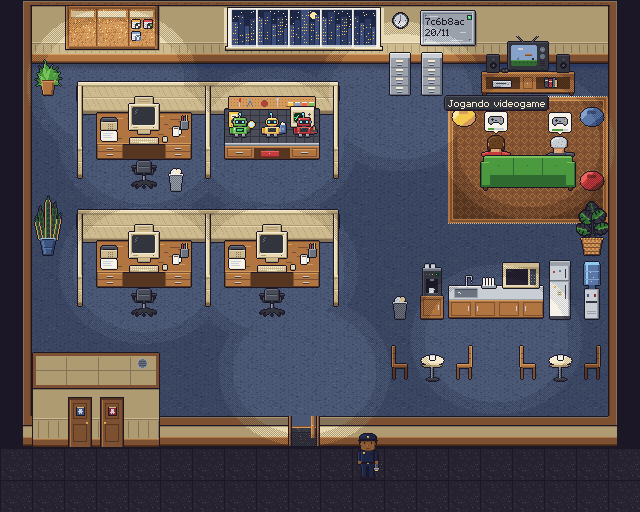
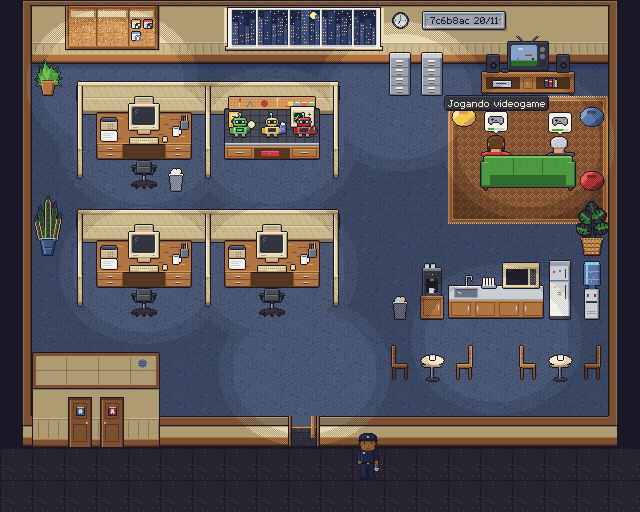
docs: a placa da versão numa linha só, da altura do relógio
A placa_versao_linha (96 × 64, nas colunas 13 a 15) substitui a placa de duas
linhas: comprida, alinhada com o relógio e sem a luz, que passa para a barra de
cima da tela. A placa_versao antiga fica na folha até a tela trocar. O "." da
fonte vai para a coluna 0 da célula, como a tela já o recortava. A prévia
mostra a placa nova em todas as cenas.

Claude-Session: https://claude.ai/code/session_01BURa66aaHAm5tC4w4uDtJx

Changed region(s): [[0.6562, 0.0, 0.8125, 0.0938]]

diff --git a/docs/design/escritorio-arte/escritorio-arte.html b/docs/design/escritorio-arte/escritorio-arte.html
@@ -1250,7 +1250,7 @@ const GLIFOS_BASE = {
   7: '#####/....#/...#./..#../..#../..#../..#..',
   8: '.###./#...#/#...#/.###./#...#/#...#/.###.',
   9: '.###./#...#/#...#/.####/....#/...#./.##..',
-  '.': './././././.#',
+  '.': './././././#',
   ',': '../../../../../.#/.#/#.',
   ';': '../../.#/../../.#/.#/#.',
   ':': './././#/./././#',
@@ -1876,6 +1876,24 @@ function selo(nome) {
   return s;
 }
 
+// ---- a placa da versão numa linha só (21/11): comprida, da altura do relógio e alinhada com
+// ele, sem a luz (o estado vai na barra de cima da tela). Substitui a placa_versao.
+const PLACA_LINHA = {
+  posicao: [13, 1],                                   // o tile da esquerda, na linha de baixo da parede (as colunas 13 a 15)
+  texto: { x: 13, y: 14, largura: 70, altura: 12, cor: 'escuro', formato: '<commit> <dd/mm>' },
+};
+function placaLinha() {
+  const s = new Spr(96, 64), p = new Spr(96, 64);
+  const x0 = 7, y0 = 12, x1 = 88, y1 = 28;
+  s.hl(x0 + 1, x1 + 1, y1 + 2, 'begeSomb').vl(x1 + 2, y0 + 2, y1 + 2, 'begeSomb');                  // a sombra na parede
+  p.r(x0, y0, x1 - x0 + 1, y1 - y0 + 1, 'cinzaCl');
+  p.hl(x0, x1, y0, 'branco').vl(x0, y0, y1, 'branco').hl(x0, x1, y1, 'cinza').vl(x1, y0, y1, 'cinza');
+  p.hl(x0 + 2, x1 - 2, y0 + 2, 'cinza').hl(x0 + 2, x1 - 2, y1 - 2, 'branco').vl(x0 + 2, y0 + 2, y1 - 2, 'cinza').vl(x1 - 2, y0 + 2, y1 - 2, 'branco');
+  for (const x of [x0 + 4, x1 - 5]) p.r(x, 19, 2, 2, 'cinza').p(x, 19, 'cinzaEsc').p(x + 1, 20, 'branco');   // os dois parafusos
+  p.contorno();
+  return s.cola(p);
+}
+
 // =====================================================================
 // PERSONAGENS: um corpo-base parametrizável, em quadros de 64 × 64
 // Âncora (32, 64): o contorno do pé encosta na última linha.
@@ -2356,7 +2374,11 @@ const FOLHAS = [
   { nome: 'placa_versao', grupo: 'parede do fundo', q: [64, 64], col: PLACA_ESTADOS.length, lin: 1, pegada: [2, 1], ancora: [32, 64], camada: 'parede',
     quadros: PLACA_ESTADOS, desenha: c => placaVersao(PLACA_ESTADOS[c]),
     nota: 'na parede do fundo, ao lado do relógio: posicao é o tile da esquerda na linha 1 da parede (as colunas 13 e 14), e o quadro cobre as linhas 0 e 1. A luz é emissiva. A tela escreve o commit e a data em texto, em duas linhas, na fonte da sala; atualizando e atualizando2 se alternam.',
-    extra: () => ({ posicao: PLACA.posicao, texto: PLACA.texto }) },
+    extra: () => ({ posicao: PLACA.posicao, texto: PLACA.texto, substituidaPor: 'placa_versao_linha' }) },
+  { nome: 'placa_versao_linha', grupo: 'parede do fundo', q: [96, 64], col: 1, lin: 1, pegada: [3, 1], ancora: [48, 64], camada: 'parede',
+    quadros: ['placa'], desenha: () => placaLinha(),
+    nota: 'a placa da versão numa linha só (21/11), no lugar da placa_versao: da altura do relógio e alinhada com ele, nas colunas 13 a 15; sem a luz, porque o estado vai na barra de cima da tela. A tela escreve o commit curto e o dia, separados por um espaço (ex.: 89f4167 21/11), centrados no retângulo texto.',
+    extra: () => ({ posicao: PLACA_LINHA.posicao, texto: PLACA_LINHA.texto }) },
   { nome: 'mesa_dev', grupo: 'móveis', q: [96, 64], col: 7, lin: 1, pegada: [3, 1], ancora: [48, 64], camada: 'normal',
     quadros: ['apagada', 'tela 1', 'tela 2', 'tela 3', 'lendo', 'testes verdes', 'testes vermelhos'],
     nota: 'os quadros 4 a 6 são o último passo do dev na oficina', desenha: c => mesaDev(c) },
@@ -2758,8 +2780,9 @@ function objetos(cena, t) {
   if (typeof e.ficha === 'number') fichaEm(1, (2 + e.ficha) * T + (e.ficha === 0 ? 5 : 2) + 1, 19, e.ficha === 2 && e.selo);
   if (cena.fichasPr) { fichaEm(0, 4 * T + 15, 19, 'ci_verde'); fichaEm(3, 4 * T + 3, 31, 'mesclado'); }
   // a placa da versão, na parede ao lado do relógio, com o commit e a data
-  const [estado, commit, data] = cena.placa ? cena.placa(t) : ['rodando', '7c6b8ac', '20/11'];
-  o.push({ spr: placaComTexto(estado, [commit, data]), x: PLACA.posicao[0] * T, y: (PLACA.posicao[1] + 1) * T - 64, base: -1, ordem: 0 });
+  let [, commit, data] = cena.placa ? cena.placa(t) : ['rodando', '7c6b8ac', '20/11'];
+  if (PLACA_TEXTO) [commit, data] = PLACA_TEXTO;
+  o.push({ spr: placaLinhaComTexto(commit + ' ' + data), x: PLACA_LINHA.posicao[0] * T, y: (PLACA_LINHA.posicao[1] + 1) * T - 64, base: -1, ordem: 0 });
   // os cubículos
   for (const k of DIV) { const [c, l] = k.split(',').map(Number); poe(quadro('divisoria', mascara(c, l) % 4, mascara(c, l) >> 2), c, l); }
   const digitando = atores.camps && atores.camps.anim === 'digitando';
@@ -2809,6 +2832,17 @@ function placaComTexto(estado, linhas) {
   if (!PLACAS.has(k)) {
     const s = quadro('placa_versao', PLACA_ESTADOS.indexOf(estado)).clone(), tx = PLACA.texto;
     linhas.forEach((l, i) => escreve(s, l, tx.x, tx.y + i * tx.entrelinha, tx.cor));
+    PLACAS.set(k, s);
+  }
+  return PLACAS.get(k);
+}
+// a placa numa linha: o texto centrado no retângulo da folha
+let PLACA_TEXTO = null;                 // quem exporta pode fixar o texto: [commit, dia]
+function placaLinhaComTexto(linha) {
+  const k = 'linha|' + linha;
+  if (!PLACAS.has(k)) {
+    const s = quadro('placa_versao_linha', 0).clone(), tx = PLACA_LINHA.texto;
+    escreve(s, linha, tx.x + Math.max(0, Math.floor((tx.largura - larguraTexto(linha)) / 2)), tx.y, tx.cor);
     PLACAS.set(k, s);
   }
   return PLACAS.get(k);
@@ -2898,6 +2932,7 @@ window.cenas = () => Object.entries(CENAS).map(([id, c]) => ({ id, nome: c.nome,
 window.quadroPrevia = (i, op = {}) => {
   const cv = document.createElement('canvas'); cv.width = SALA.L * T; cv.height = SALA.A * T;
   MOUSE = op.mouse || null;
+  PLACA_TEXTO = op.placa || null;
   desenhaPrevia(cv.getContext('2d'), i, op.cena || (op.noite ? 'noite' : 'pedido'));
   return cv.toDataURL('image/png');
 };

diff --git a/docs/design/README.md b/docs/design/README.md
@@ -116,6 +116,7 @@ Em [escritorio-arte/](escritorio-arte/): a fatia que basta para decidir entre a 
   - **os selos do PR** (`selos.png`, 6 × 6): um adesivo escuro no canto da ficha, com o ramo, a ponta verde ou vermelha, e o mesclado em azul; e os mesmos quatro, mais `atualizando`, no fim de `icones.png`.
 
   Entra uma cor, `ledAmbar`, emissiva: a paleta vai a 48. Na prévia, uma cena nova, "16:00 · o PR e a versão nova": a placa troca de `b28dab7` para `7c6b8ac`, o dev entrega, o publicador carimba e a ficha ganha o selo; os três robôs ficam na bancada em todas as cenas, e as fichas com selo também à noite.
+- **A placa numa linha só (21/11):** a `placa_versao_linha.png` (96 × 64, pegada 3 × 1, nas colunas 13 a 15) substitui a `placa_versao`: comprida, da altura do relógio e alinhada com ele, sem a luz, porque o estado passa para a barra de cima da tela. A tela escreve o commit e o dia numa linha (`89f4167 21/11`), no retângulo `texto`. A `placa_versao` de quatro quadros fica na folha até a tela trocar. E o "." da fonte passou para a coluna 0 da célula, como a tela já o recortava.
 - **Como abrir:** [escritorio-arte.html](escritorio-arte/escritorio-arte.html), no navegador, mostra a sala animada, a paleta e a prancha, com um "baixar PNG" por folha. As folhas já exportadas estão em [folhas/](escritorio-arte/folhas/), com o [metadados.json](escritorio-arte/folhas/metadados.json) para o manifesto, e a prévia em [previa/](escritorio-arte/previa/).
 - **Exportar de novo:** da raiz, `NODE_PATH=apps/ui/node_modules node docs/design/escritorio-arte/ferramentas/exportar-folhas.js docs/design/escritorio-arte/escritorio-arte.html <pasta>`, com o Playwright do `apps/ui`.
 - **Origem:** o Claude desenhou numa sessão do Cowork, em 15/11/2026, e não no Claude Design; o pedido serviu igual. O desenho é original: nada vem da LPC nem de outros pacotes.
